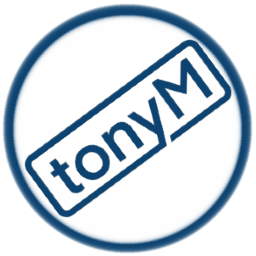
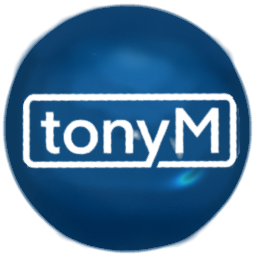
chore: new app iocn

diff --git a/projects/shell/src/app/dialogs/file.dialog.ts b/projects/shell/src/app/dialogs/file.dialog.ts
@@ -1,4 +1,5 @@
-import { Component, computed, inject, signal } from "@angular/core";
+import { Component, computed, effect, inject, signal } from "@angular/core";
+import { toSignal } from "@angular/core/rxjs-interop";
 import { FormControl, FormGroup, FormsModule, ReactiveFormsModule, Validators } from "@angular/forms";
 import { AutoCompleteModule } from "primeng/autocomplete";
 import { ButtonModule } from "primeng/button";
@@ -10,7 +11,6 @@ import { KeyFilterModule } from 'primeng/keyfilter';
 import { MessageModule } from "primeng/message";
 import { BlaudirectContract, BlaudirektCustomer, BlaudirektService } from "../data-access/blaudirekt.service";
 import { CompanyComponent } from "./company";
-import { toSignal } from "@angular/core/rxjs-interop";
 
 @Component({
     selector: 'file-dialog',
@@ -35,6 +35,14 @@ export class FileDialogComponent {
 
     constructor() {
         this.formGroup.controls.name.patchValue(this.pDialogConf.data?.name, { emitEvent: false });
+
+        effect(() => {
+            if (this.blaudirektService.isInitialized()) {
+                this.formGroup.controls.customer.enable();
+            } else {
+                this.formGroup.controls.customer.disable();
+            }
+        });
     }
 
     protected toggleSelection() {
@@ -76,6 +84,7 @@ export class FileDialogComponent {
         const raw = this.formGroup.getRawValue();
 
 
+        console.log(this.blaudirektService.customers.value())
         let contents = {};
         if (raw.customer?.Id) {
             const items = raw.selectedContracts?.map(contract => {
@@ -93,7 +102,7 @@ export class FileDialogComponent {
                     monthly: contract.Beitrag.Zahlweise === '1',
                     nr: contract.Versicherungsscheinnummer,
                     oneTimePayment: 0,
-                    party: "",
+                    party: raw.customer ? `${raw.customer?.Person.Vorname} ${raw.customer.Person.Nachname}` : '-',
                     scope: "",
                     suggestion: { value: 'acquisition', label: 'Übernahme' },
                     type: division?.Text

diff --git a/projects/shell/src/app/features/app/form/form.component.html b/projects/shell/src/app/features/app/form/form.component.html
@@ -21,7 +21,7 @@
     </div>
     }
     @else {
-    <form [formGroup]="_formGroup" class="inline-flex flex-col space-y-2 overflow-auto w-full">
+    <form [formGroup]="_formGroup" class="inline-flex flex-col space-y-2 overflow-auto w-full p-2">
         @if(_pdfService.isLoading()) {
         <p-progressbar mode="indeterminate" [style]="{ height: '6px' }" />
         }
@@ -34,7 +34,8 @@
                         <label for="firstname">Firma</label>
                         <input pSize="small" formControlName="company" pInputText id="company" />
                     </div>
-                    <p-button icon="pi pi-trash" severity="danger" size="small" (onClick)="removePerson(personIdx)" />
+                    <p-button icon="pi pi-trash" severity="warn" [text]="true" size="small"
+                        (onClick)="removePerson(personIdx)" />
                 </div>
                 <div class="inline-flex space-x-4">
                     <div class="inline-flex flex-col space-y-1">
@@ -84,7 +85,7 @@
                 <div class="flex items-center gap-1">
                     <span class="text-xl font-semibold">{{group.controls.name.value}}</span>
                     <p-button icon="pi pi-pencil" size="small" [text]="true" (onClick)="onEditGroup(groupIndex)" />
-                    <p-button icon="pi pi-trash" size="small" [text]="true" (onClick)="onRemoveGroup(groupIndex)" />
+                    <p-button icon="pi pi-trash" size="small" severity="warn" [text]="true" (onClick)="onRemoveGroup(groupIndex)" />
                 </div>
                 <p-table (onRowReorder)="onRowReorder()"
                     [value]="_formGroup.controls.groups.at(groupIndex).controls.items.controls"

diff --git a/projects/shell/src/app/app.component.html b/projects/shell/src/app/app.component.html
@@ -1,4 +1,4 @@
-@if(isInitialized()) {
+@if(true) {
 <div class="flex w-full relative h-full overflow-hidden">
     <div class="flex-none flex h-full sidebar shadow-sm z-1 border-r-1 border-zinc-50 dark:border-zinc-600 flex-col"
         [class.open]="_isSidebarOpen()">
@@ -106,6 +106,13 @@
                 </ng-template>
                 <ng-template #end>
                     <div class="flex items-center space-x-1">
+                        @if(!isInitialized()) {
+                        <div class="flex gap-1 items-center">
+                            <span class="text-xs text-gray-900 dark:text-gray-100">Lade Daten</span>
+                            <p-progress-spinner class="flex" ariaLabel="loading"
+                                [style]="{ width: '20px', height: '20px' }" />
+                        </div>
+                        }
 
                         @if( !fileService.isAuthenticated()) {
                         } @else {
@@ -146,13 +153,4 @@
         <code [innerHTML]="_logs()"></code>
    </pre>
 </p-dialog>
-}
-@else {
-<div class="flex w-full h-full items-center justify-center">
-    <div class="flex flex-col">
-
-        <p-progress-spinner class="flex" ariaLabel="loading" [style]="{ width: '40px', height: '40px' }" />
-        <span class="text-gray-900 dark:text-gray-100">Initialisiere Daten</span>
-    </div>
-</div>
 }

diff --git a/projects/shell/src/app/data-access/blaudirekt.service.ts b/projects/shell/src/app/data-access/blaudirekt.service.ts
@@ -1,4 +1,4 @@
-import { effect, inject, Injectable, resource, signal } from "@angular/core";
+import { inject, Injectable, resource, signal } from "@angular/core";
 import { toSignal } from "@angular/core/rxjs-interop";
 import { debounceTime, lastValueFrom, Subject } from "rxjs";
 import { ElectronService } from "./electron.service";
@@ -70,6 +70,7 @@ export class BlaudirektService {
     private readonly query = toSignal(this.search$.pipe(debounceTime(500)));
     readonly companies = signal<BlaudirektCompany[]>([]);
     readonly divisions = signal<BlaudirektDivision[]>([]);
+    readonly isInitialized = signal<boolean>(false);
 
     search(query: string) {
         this.search$.next(query);
@@ -112,10 +113,19 @@ export class BlaudirektService {
         return this._customers;
     }
 
+
+
     async init() {
-        return Promise.all([
-            this.searchCompanies(),
-            this.searchDivisions(),
-        ]);
+        try {
+            await Promise.all([
+                this.searchCompanies(),
+                this.searchDivisions(),
+            ]);
+        } catch (e) {
+            console.error('Failed to initialie Blaudirekt Connections', e);
+        } finally {
+            this.isInitialized.set(true);
+        }
+
     }
 }

diff --git a/electron/dropbox/dropbox.service.ts b/electron/dropbox/dropbox.service.ts
@@ -1,12 +1,12 @@
 import { BrowserWindow } from "electron";
 
 // Basti
-const CLIENT_ID = '57ar8edt0ljrz6u';
-const CLIENT_SECRET = '4j6otu8w8zl35iw';
+// const CLIENT_ID = '57ar8edt0ljrz6u';
+// const CLIENT_SECRET = '4j6otu8w8zl35iw';
 
 // Tony
-// const CLIENT_ID = 'brls8bkox6m412t';
-// const CLIENT_SECRET = 'bovs1s7mfl51thw';
+const CLIENT_ID = 'brls8bkox6m412t';
+const CLIENT_SECRET = 'bovs1s7mfl51thw';
 
 export class DropboxService {
     static async listDropboxFiles(accessToken: string, query: string | undefined = undefined) {

diff --git a/projects/shell/src/app/features/app/form/c-date.pipe.ts b/projects/shell/src/app/features/app/form/c-date.pipe.ts
@@ -7,9 +7,7 @@ import { Pipe, PipeTransform } from "@angular/core";
 })
 export class CDatePipe extends DatePipe implements PipeTransform {
 
-    override transform(value: any, format?: string, timezone?: string, locale?: string): any {
-        // const formattedDate = super.transform(value, format, timezone, locale);
-        // do other formatting and return the value
+    override transform(value: any, format?: string): any {
         if (!value) { return ''; }
         let result = '';
         try {

diff --git a/projects/shell/src/app/app.config.ts b/projects/shell/src/app/app.config.ts
@@ -28,7 +28,6 @@ export const appConfig: ApplicationConfig = {
     MessageService,
     DialogService,
     { provide: ErrorHandler, useClass: GlobalErrorHandler },
-    // provideZoneChangeDetection({ eventCoalescing: true }),
     provideZonelessChangeDetection(),
     provideRouter(routes),
     provideHttpClient(
